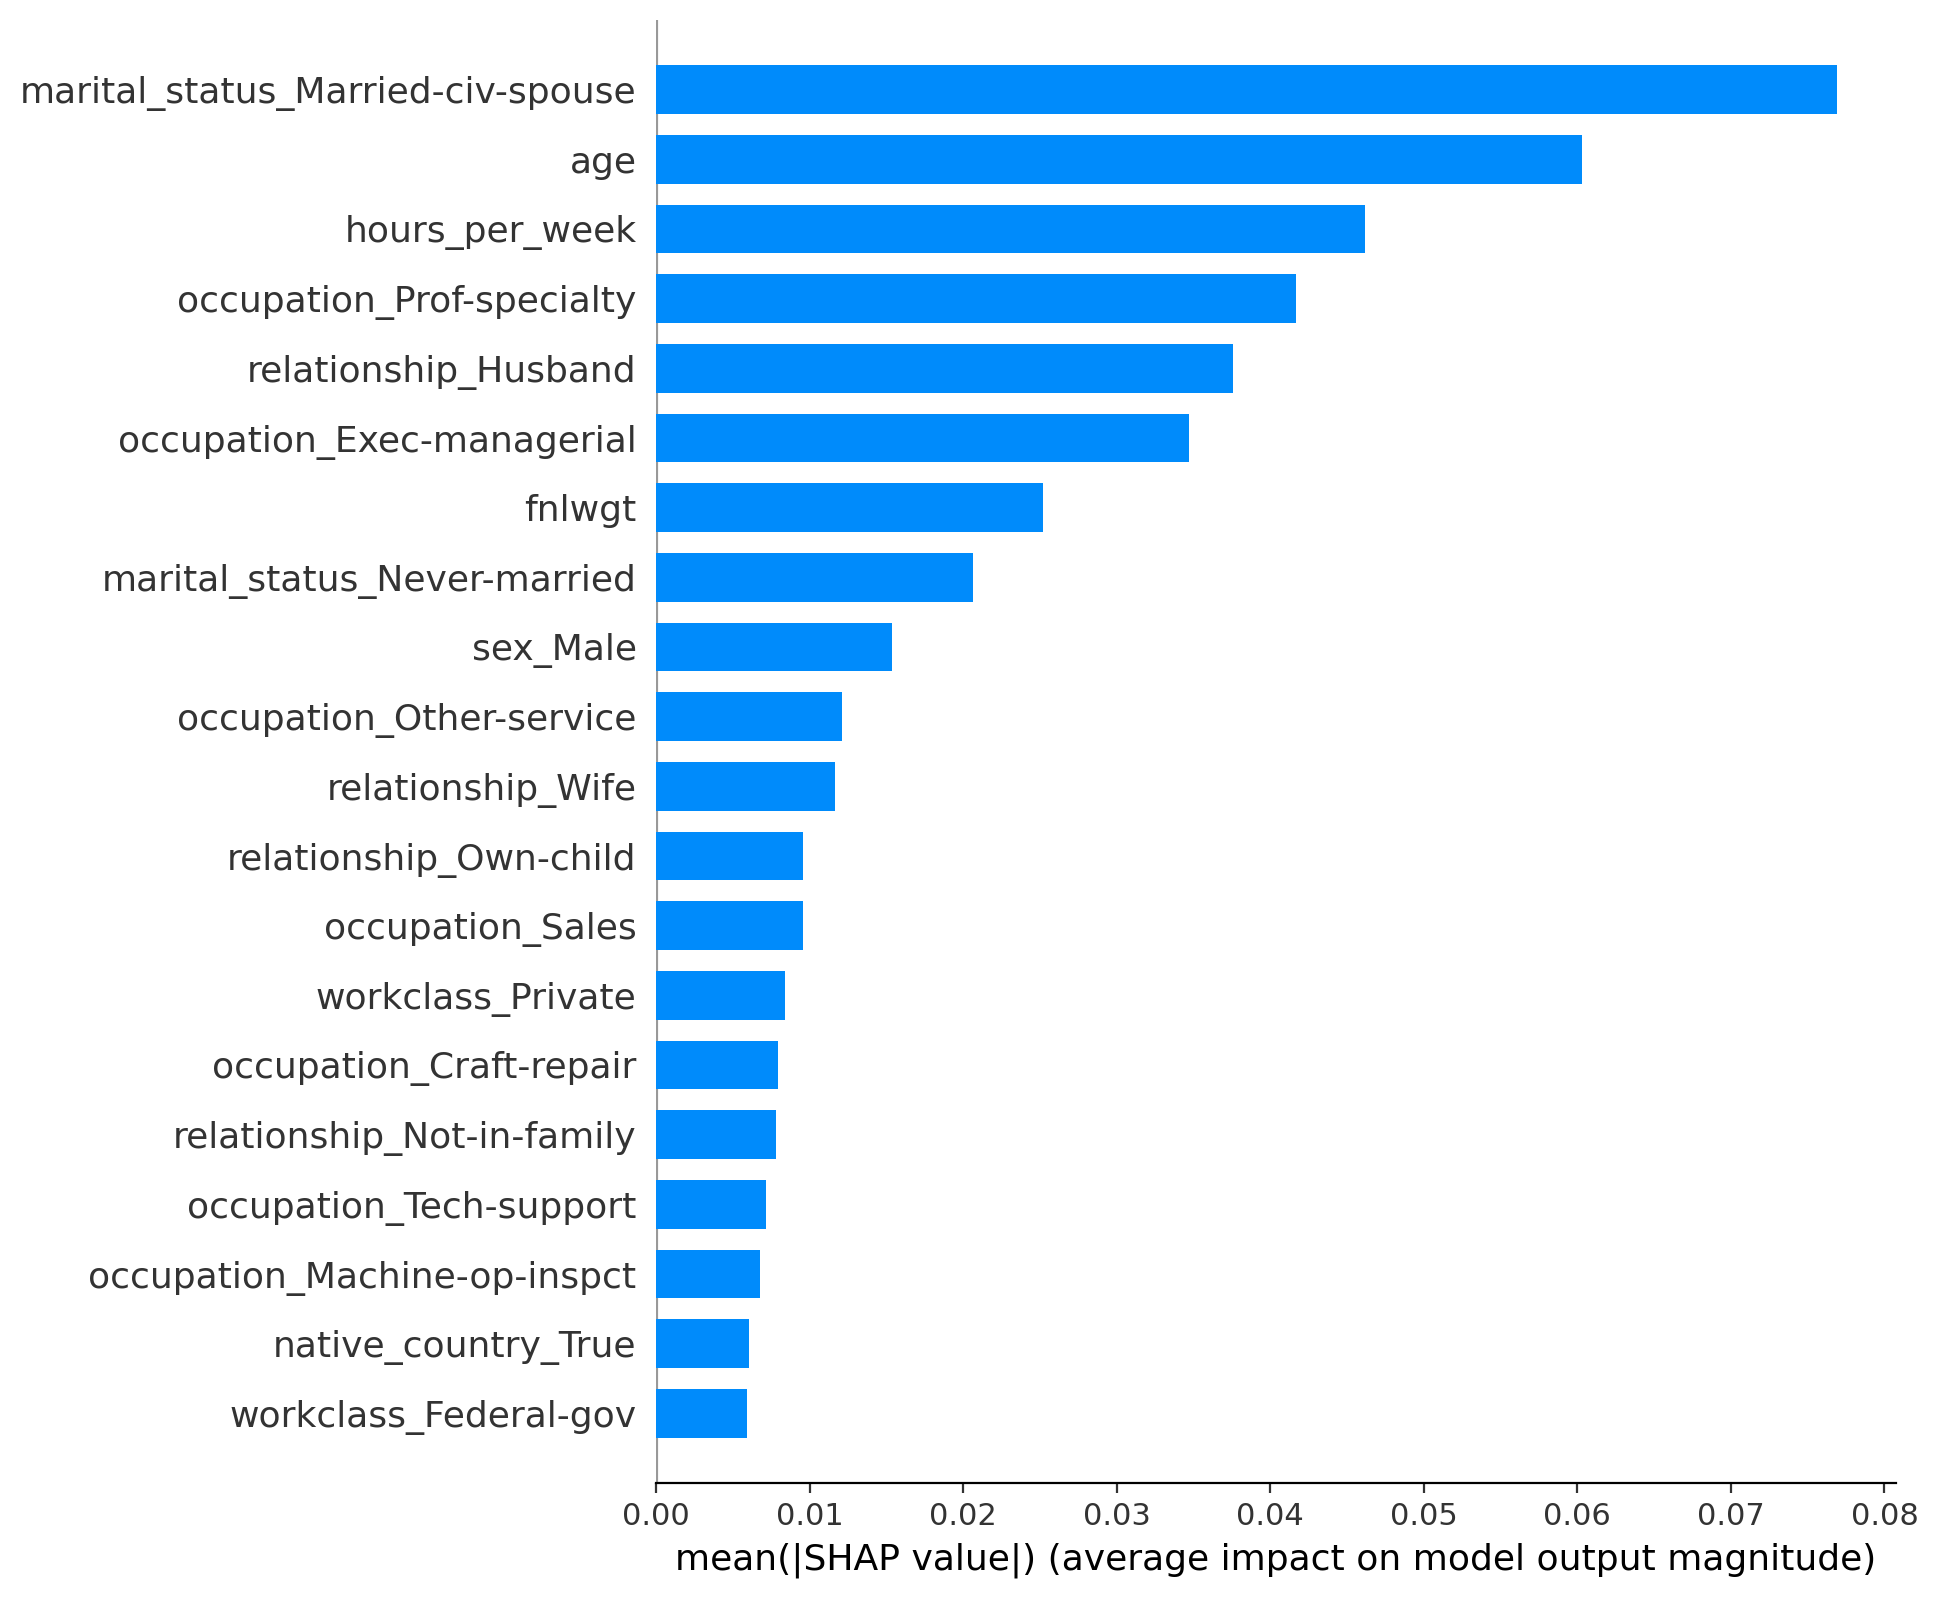
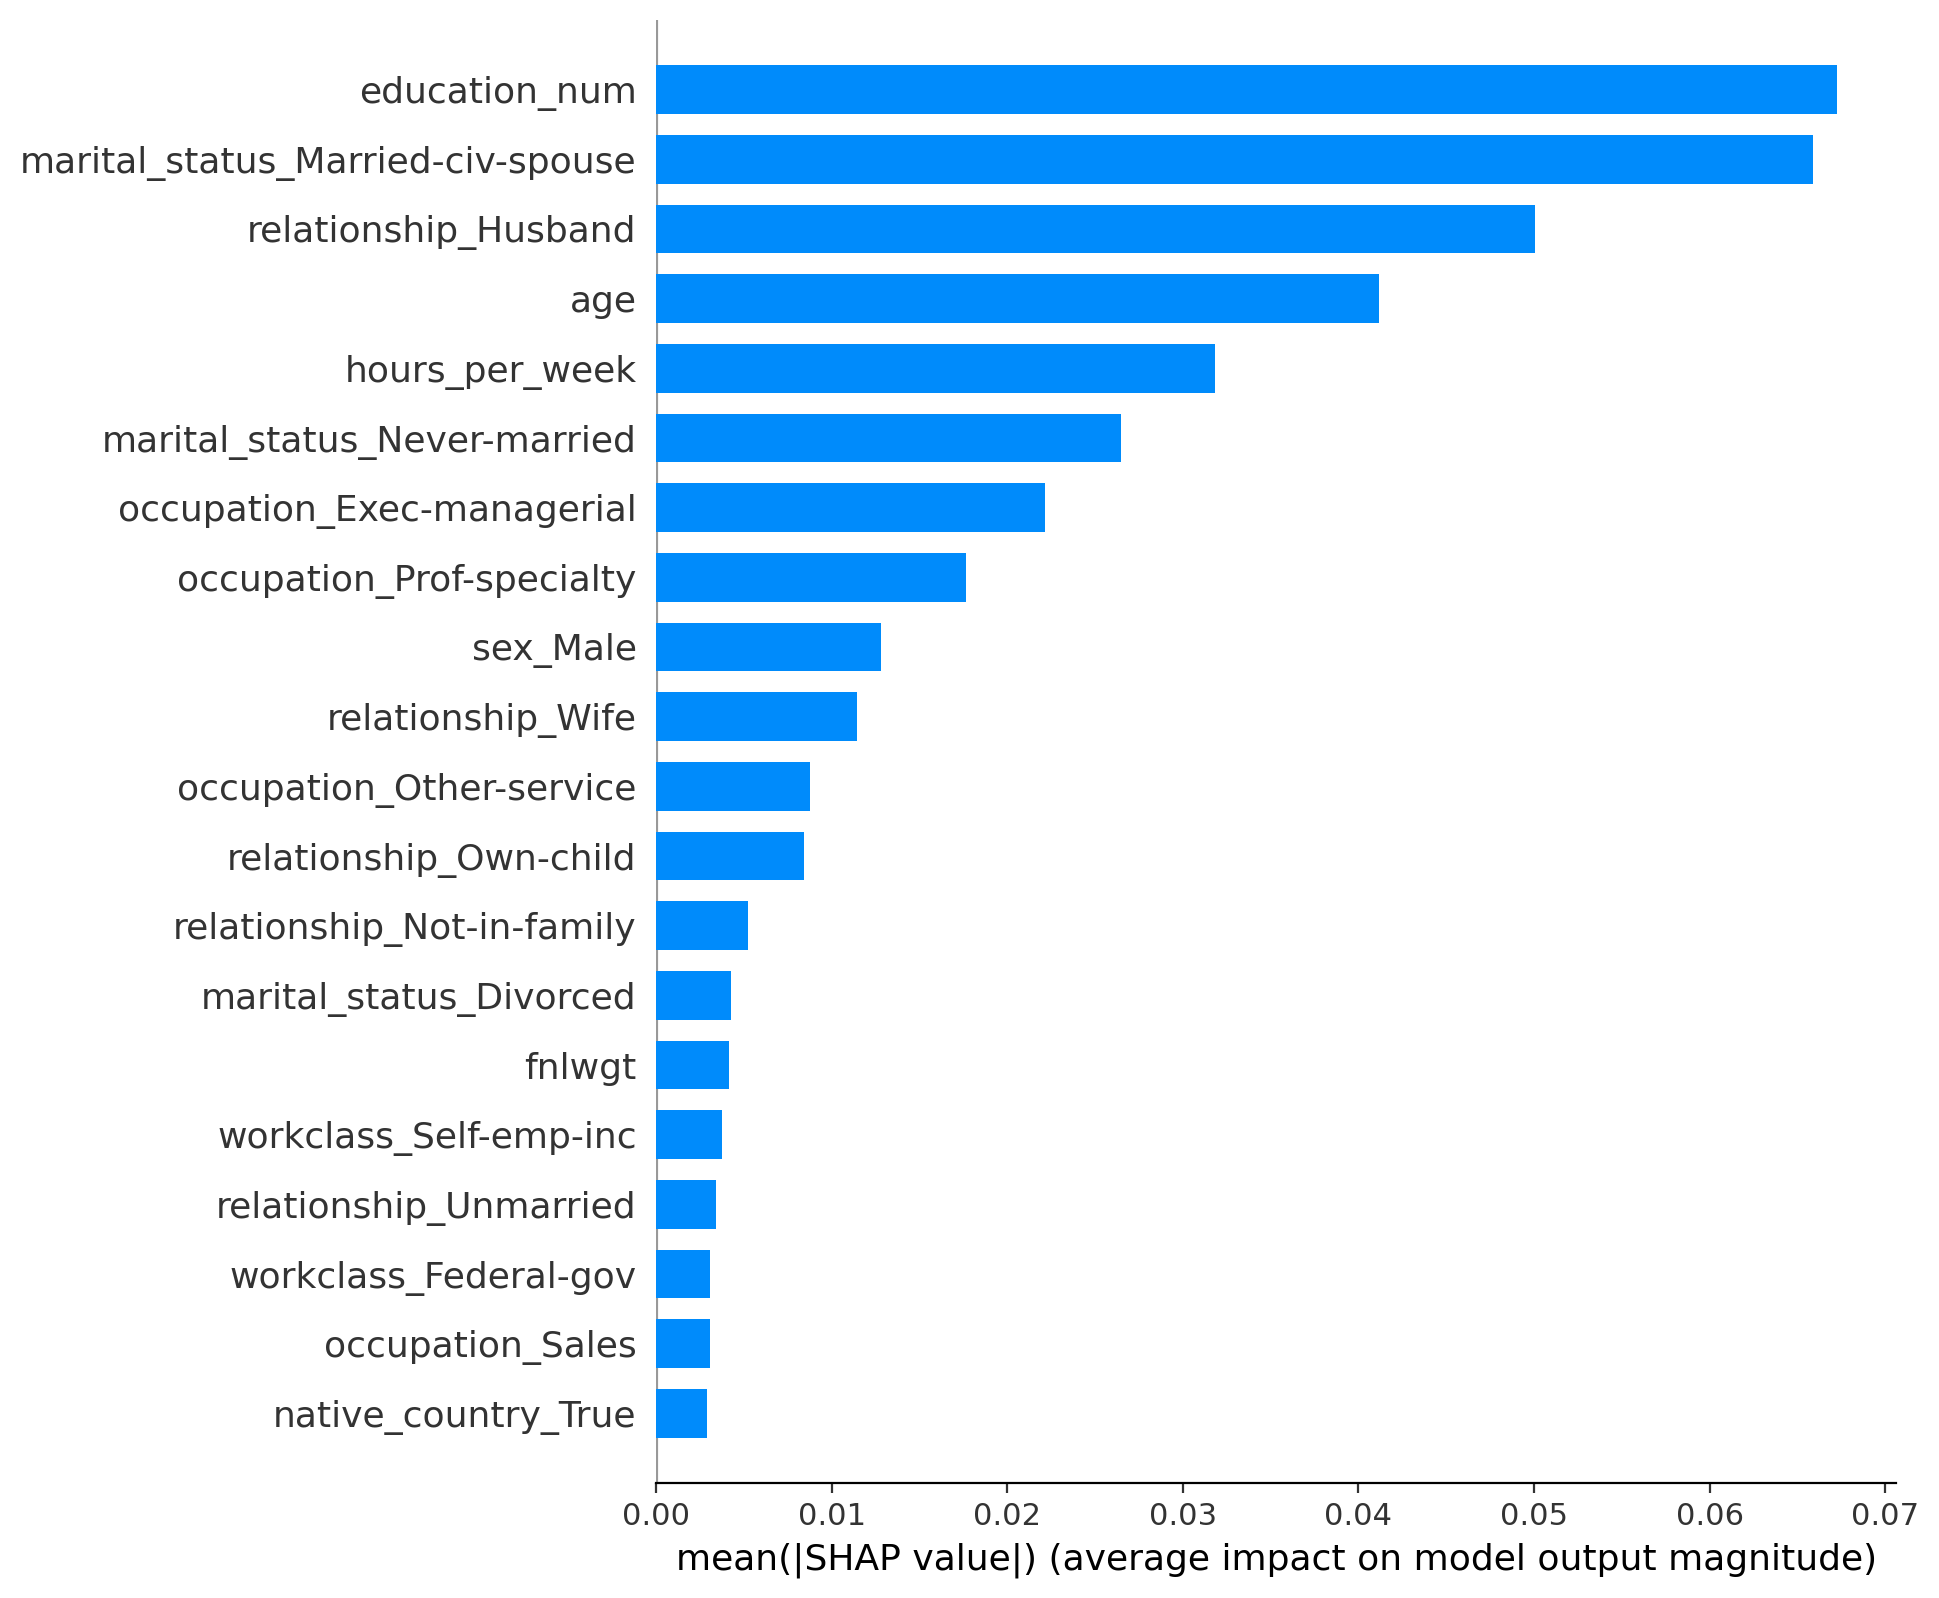
Change the target of explainer and add back passthrough feature

diff --git a/src/model_building.py b/src/model_building.py
@@ -81,6 +81,7 @@ def main():
         (OneHotEncoder(sparse=False, handle_unknown='ignore', drop=[np.nan] * 2), categorical_null_feats),
         (OneHotEncoder(sparse=False, handle_unknown='ignore'), categorical_nonull_feats),
         (OneHotEncoder(drop='if_binary'), binary_feats),
+        ('passthrough', passthrough_feats),
         ('drop', drop_feats)
     )
 
@@ -91,13 +92,12 @@ def main():
     numeric_feats + list(col_trans.named_transformers_['onehotencoder-1'].get_feature_names_out()) 
     + list(col_trans.named_transformers_['onehotencoder-2'].get_feature_names_out()) 
     + list(col_trans.named_transformers_['onehotencoder-3'].get_feature_names_out())
+    + passthrough_feats
    )
     
-    #transform X_train
-    x_trans=col_trans.transform(X_train)
-    
+    #transform X_train    
     X_train_enc = pd.DataFrame(
-    data=col_trans.transform(X_train),
+    data=col_trans.fit_transform(X_train),
     columns=feature_names
     )
 
@@ -122,37 +122,6 @@ def main():
     baseline_results_path = os.path.join(opt['--out_dir'], "baseline_result.csv")
     baseline_results.to_csv(baseline_results_path)
     print(f"Baseline Result saved to {baseline_results_path}")
-
-
-    #Perform SHAPING
-    pipe_forest.fit(X_train, y_train)
-    print("Performing SHAPING for 200 examples...")
-    rf_explainer = shap.TreeExplainer(pipe_forest.named_steps["randomforestclassifier"])
-    train_rf_shap_values = rf_explainer.shap_values(X_train_enc[:200])
-    
-
-    #extract most important global features
-    values = np.abs(train_rf_shap_values[1]).mean(0) # mean of shapely values in each column 
-    shap_values=pd.DataFrame(data=values, index=feature_names, columns=["SHAP"]).sort_values(
-    by="SHAP", ascending=False)[:10]
-    shap_values_path = os.path.join(opt['--out_dir'], "shap_values.csv")
-    shap_values.to_csv(shap_values_path)
-    print(f"Shap Values saved to {shap_values_path}")
-    
-    print("Generating Bar summary plot...")
-    plt.figure()
-    shap_summary_plot = shap.summary_plot(train_rf_shap_values[1], X_train_enc, plot_type="bar", show=False)
-    plt.savefig(f"{opt['--out_dir']}/shap_summary_barplot.png", dpi=200, bbox_inches='tight')
-    print(f"----- Saved plot for SHAP summary bar plot in {opt['--out_dir']}/shap_summary_barplot.png -----")
-    plt.close()
-
-    
-    print("Generating SHAP heat summary plot...")
-    plt.figure()
-    shap_summary_heatplot=shap.summary_plot(train_rf_shap_values[1], X_train_enc[:200], show=False)
-    plt.savefig(f"{opt['--out_dir']}/shap_summary_heatplot.png", dpi=200, bbox_inches='tight')
-    print(f"----- Saved plot for SHAP summary heat plot in {opt['--out_dir']}/shap_summary_heatplot.png -----")
-    plt.close()
     
     # Hyperparameter Tuning
     param_dist = {
@@ -182,6 +151,37 @@ def main():
     hyperparam_result_path = os.path.join(opt['--out_dir'], "hyperparam_result.csv")
     hyperparam_result.to_csv(hyperparam_result_path)
     print(f"Hyperparameter Tuning Result saved to {hyperparam_result_path}")
+
+    #Perform SHAPING
+    print("Performing SHAPING for 200 examples...")
+    rf_explainer = shap.TreeExplainer(rand_search_rf.best_estimator_.named_steps["randomforestclassifier"])
+    train_rf_shap_values = rf_explainer.shap_values(X_train_enc[:200])
+    
+
+    #extract most important global features
+    values = np.abs(train_rf_shap_values[1]).mean(0) # mean of shapely values in each column 
+    shap_values=pd.DataFrame(data=values, index=feature_names, columns=["SHAP"]).sort_values(
+        by="SHAP", ascending=False)[:10]
+
+    shap_values_path = os.path.join(opt['--out_dir'], "shap_values.csv")
+    shap_values.to_csv(shap_values_path)
+    print(f"Shap Values saved to {shap_values_path}")
+    
+    print("Generating Bar summary plot...")
+    plt.figure()
+    shap_summary_plot = shap.summary_plot(train_rf_shap_values[1], X_train_enc, plot_type="bar", show=False)
+    plt.savefig(f"{opt['--out_dir']}/shap_summary_barplot.png", dpi=200, bbox_inches='tight')
+    print(f"----- Saved plot for SHAP summary bar plot in {opt['--out_dir']}/shap_summary_barplot.png -----")
+    plt.close()
+
+    
+    print("Generating SHAP heat summary plot...")
+    plt.figure()
+    shap_summary_heatplot=shap.summary_plot(train_rf_shap_values[1], X_train_enc[:200], show=False)
+    plt.savefig(f"{opt['--out_dir']}/shap_summary_heatplot.png", dpi=200, bbox_inches='tight')
+    print(f"----- Saved plot for SHAP summary heat plot in {opt['--out_dir']}/shap_summary_heatplot.png -----")
+    plt.close()
+
 
     # Export the model
     fp = open(output_filename, "wb")
